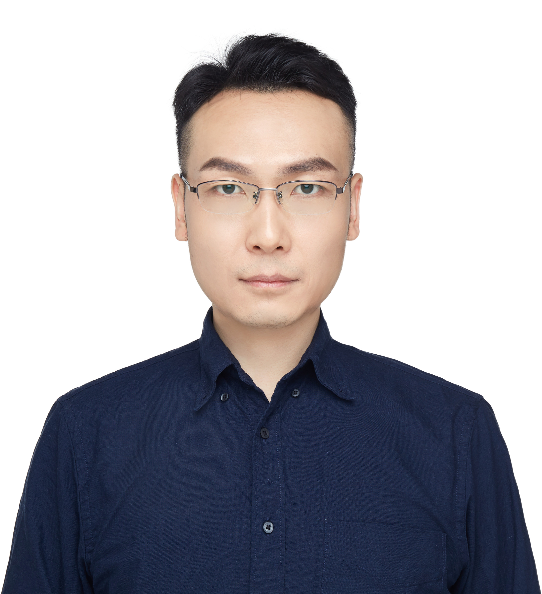
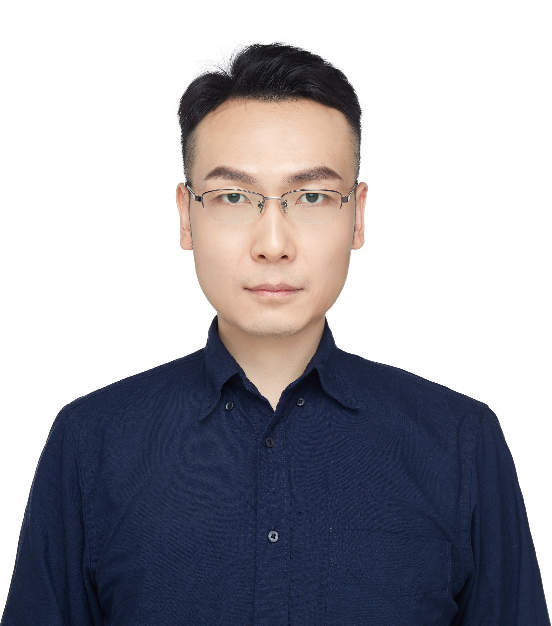
更新相片

diff --git a/_pages/about.md b/_pages/about.md
@@ -10,11 +10,13 @@ redirect_from:
 - 2005年和2012年在北京航空航天大学分别获得工学学士和工学博士学位。2016年至2017年在悉尼科技大学和迪肯大学访问一年。主持自科基金面上项目1项、自科基金青年项目1项、863项目子课题1项。参与核高基、973、863等10余项科研项目。在 *IEEE Transactions on Dependable and Secure Computing、IEEE Transactions on Information Forensics and Security* 等国际顶级期刊与会议上发表论文20余篇。
 
 ## 研究方向
-- ![](https://img.shields.io/badge/深度学习-red) 主要研究图卷积神经网络、卷积神经网络、注意力机制等。
-- ![](https://img.shields.io/badge/情感计算-red) 文本情感方面，主要研究面向方面的文本情感分析技术；图像情感方面，主要研究个性化图像情感预测及图像情感分布分析技术。
-- ![](https://img.shields.io/badge/图像安全-red) 主要研究隐私图像分类及图像源识别技术。
-- ![](https://img.shields.io/badge/Web工程-red) Web应用构建技术。
+- ![](https://img.shields.io/badge/深度学习-red) 研究图卷积神经网络、卷积神经网络、注意力机制等
+- ![](https://img.shields.io/badge/情感计算-red) 
+  - ![](https://img.shields.io/badge/文本情感-blue) 研究面向方面的文本情感分析技术
+  - ![](https://img.shields.io/badge/图像情感-blue) 研究个性化图像情感预测及图像情感分布分析技术
+- ![](https://img.shields.io/badge/图像隐私-red) 研究隐私图像分类技术
+- ![](https://img.shields.io/badge/Web工程-red) 研究Web应用构建技术
 
 ## 招生信息
-- 每年招收两名硕士研究生，欢迎邮件交流。
+- 每年招收两名硕士研究生，欢迎邮件交流
 - 希望你 ![](https://img.shields.io/badge/积极乐观-blue) ![](https://img.shields.io/badge/为人诚实-blue) ![](https://img.shields.io/badge/做事踏实-blue)
